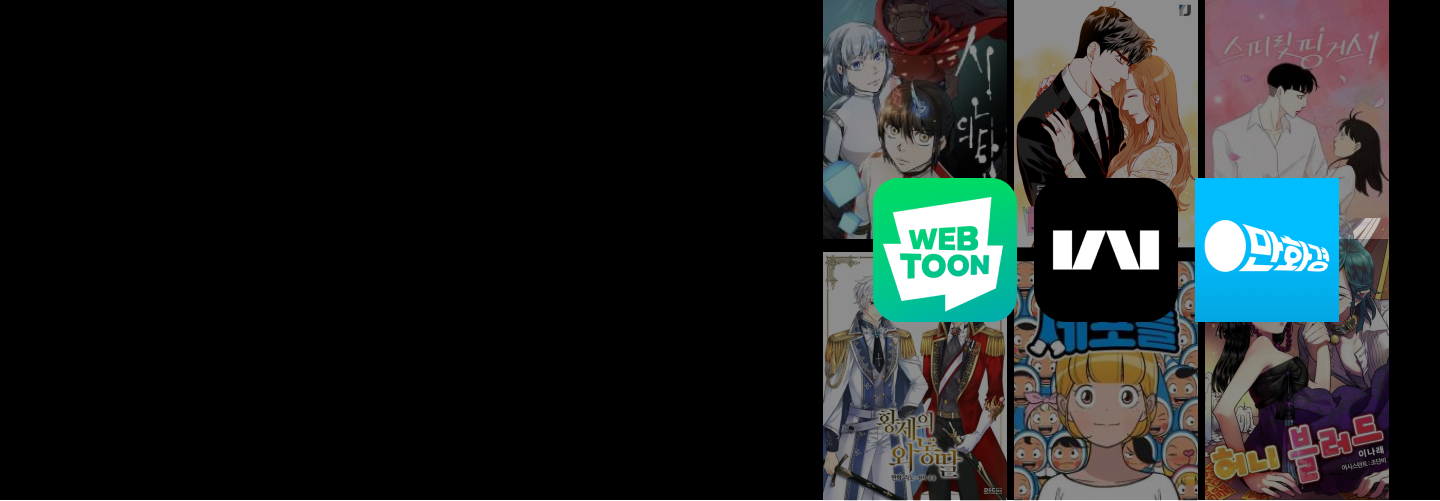
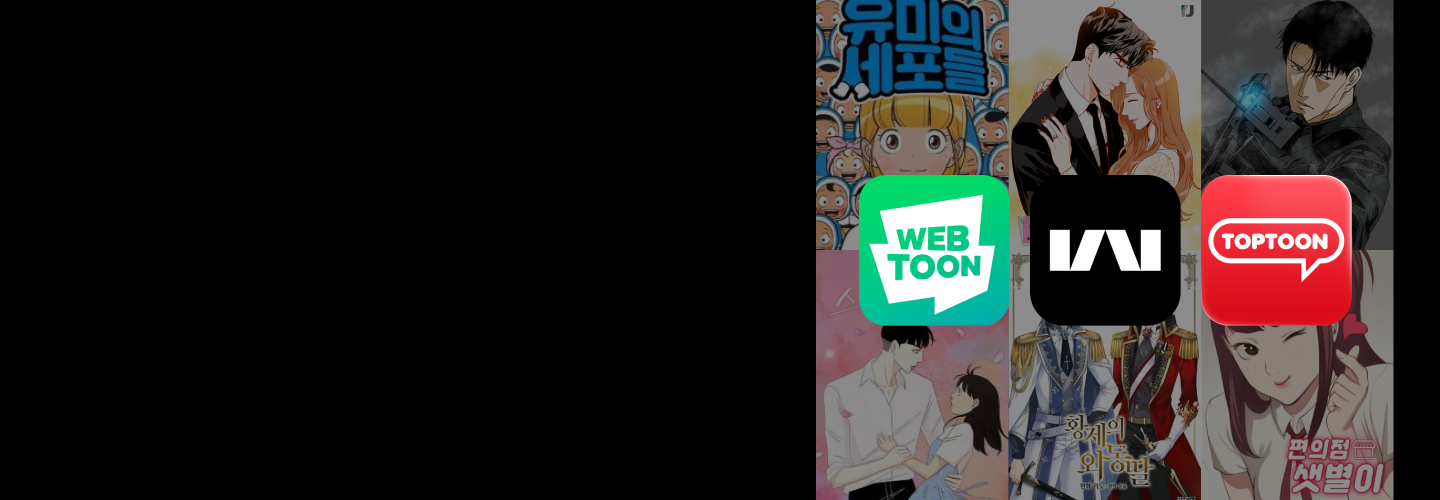
로고 변경 및 sy branch 반영2

Changed region(s): [[0.0, 0.0, 1.0, 1.0]]

diff --git a/templates/jemainpage.html b/templates/jemainpage.html
@@ -22,7 +22,7 @@
             height: 500px;
             width: 100%;
 
-            background-image: linear-gradient(0deg, rgba(0, 0, 0, 0.5), rgba(0, 0, 0, 0.5)), url("../static/mainbanner.png");
+            background-image: linear-gradient(0deg, rgba(0, 0, 0, 0), rgba(0, 0, 0, 0)), url("../static/mainbanner.png");
             background-position: center;
             background-size: cover;
 
@@ -37,7 +37,7 @@
 
         .webtoonbrd {
             /* background-color: green; */
-            
+
 
             height: 80px;
             width: 100%;
@@ -58,26 +58,14 @@
             margin-right: 10px;
         }
 
-        .card-story {
-            color: gray;
-            display: -webkit-box ;
-            -webkit-box-orient: vertical;
-            -webkit-line-clamp: 3;
-            overflow: hidden;
-        }
-
-        
         .naver {
-            padding: 40px 600px 0px 0px;
+            padding: 10px 500px 0px 0px;
             justify-content: center;
             display: flex;
             flex-direction: row;
             align-items: center;
-            
+
         }
-
-        
-
 
         .kakao {
             padding: 10px 650px 0px 0px;
@@ -132,7 +120,6 @@
         .navbar {
             background-color: black;
             color: aquamarine;
-
         }
 
         .views {
@@ -142,7 +129,7 @@
         .subs {
             background: linear-gradient(to top, #ff0000 5%, transparent 40%)
         };
-
+      
 
 
     </style>
@@ -190,7 +177,7 @@
         }
 
 
-      
+
         function show_thumbnail_index() {
             $.ajax({
                 type: "GET",
@@ -199,22 +186,23 @@
                 success: function (response) {
                     console.log(response['thumbnails'])
                     let rows = response['thumbnails']
+
                     for (let i = 0; i < 3; i++) {
+                        let kakao_kakao_rank_give = '../static/rank'+ (i+1) + '.png'
                         let title_give = rows[i]['title']
-                        let img_url_give = rows[i]['img_url']
-                        let img_rank = '../static/rank'+ (i+1) + '.png'
+                        let main_thumb_give = rows[i]['main_thumb']
+                        let topic_give = rows[i]['topic']
+                        let summary_give = rows[i]['summary']
                         let temp_html = `<div class="col">
-                                    <div class="card">
-                                        <img src="${kakao_kakao_rank_give}" class="card-rank">
+                                            <div class="card">
+                                             <img src="${kakao_kakao_rank_give}" class="card-rank">
                                               <img src="${main_thumb_give}"
                                                class="card-img-top" alt="...">
                                                 <div class="card-body">
                                                  <h5 class="card-title">${title_give}</title></h5>
                                                  <p class="card-genre">${topic_give}</p>
-                                                 <p class="card-story">${summary_give}</p>                            
-                                                 <button type="button" class="btn btn-dark"  location.href='../static/detail.html' onclick="window.open('../static/detail.html', '_blank'); ">윰세의 모든 것</button>
-
-                                        
+                                                 <p class="card-story">${summary_give}</p>
+                                         <button type="button" class="btn btn-dark"  location.href='../static/detail.html' onclick="window.open('../static/detail.html', '_blank'); ">윰세의 모든 것</button>
                                    </div>
                                   </div>
                                  </div>`
@@ -223,7 +211,7 @@
                 }
             });
         }
-        
+
 
 
 
@@ -296,7 +284,7 @@
                             `
                                     <div class="col">
                                         <div class="card">
-                                            <img src="${img_rank}" class="card-rank">     
+                                            <img src="${img_rank}" class="card-rank">
                                             <img src="" class="card-rank">
                                             <img src="${image_give}"
                                             class="card-img-top" alt="...">
@@ -322,7 +310,7 @@
 
 <body>
     <nav class="navbar navbar-expand-lg ">
-        <a class="navbar-brand" href="./jemainpage.html"><img src="../static/MainLogo_white.png"></a>
+        <a class="navbar-brand" href="./jemainpage.html" ><img src="../static/logo.png" width="100" style="margin-left: 10px;" ></a>
         <button class="navbar-toggler" type="button" data-toggle="collapse" data-target="#navbarNav" aria-controls="navbarNav" aria-expanded="false" aria-label="Toggle navigation">
           <span class="navbar-toggler-icon"></span>
         </button>
@@ -352,7 +340,6 @@
         </div>
             <h6 class ="naver">인기드라마 원작부터 판타지까지, 국내 최대 콘텐츠 플랫폼 네이버 웹툰에서 만나보세요!</h6>
 
-        
         <div class="wrap">
             <div id="cards-box" class="row row-cols-1 row-cols-md-3 g-3">
             </div>
@@ -360,10 +347,9 @@
     </div>
     <div class="webtoonbrd">
         <img src="../static/kakao2.png">
-        <h4>카카오 웹툰</h4>
+        <h4>카카오 페이지</h4>
     </div>
         <h6 class ="kakao">로맨스가 필요한 당신, 지금 카카오페이지에서 사랑을 충전하세요!</h6>
-
     <div class="wrap">
         <div id="kakao_cards-box" class="row row-cols-1 row-cols-md-3 g-3">
         </div>
@@ -373,8 +359,6 @@
         <h4>탑툰</h4>
     </div>
         <h6 class ="toptoon">액션부터 일상까지, 성숙한 독자 여러분 탑툰에서 만나요! </h6>
-    
-
     <div class="wrap">
         <div id="toptoon_cards-box" class="row row-cols-1 row-cols-md-3 g-3">
         </div>

diff --git a/static/detail.html b/static/detail.html
@@ -233,7 +233,7 @@
 <body>
 
     <nav class="navbar navbar-expand-lg navbar-light bg-light">
-        <a class="navbar-brand" href="../templates/jemainpage.html"><img src="../static/MainLogo.png"></a>
+        <a class="navbar-brand" href="./jemainpage.html" ><img src="../static/logo.png" width="100" style="margin-left: 10px;" ></a>
         <button class="navbar-toggler" type="button" data-toggle="collapse" data-target="#navbarNav" aria-controls="navbarNav" aria-expanded="false" aria-label="Toggle navigation">
           <span class="navbar-toggler-icon"></span>
         </button>
